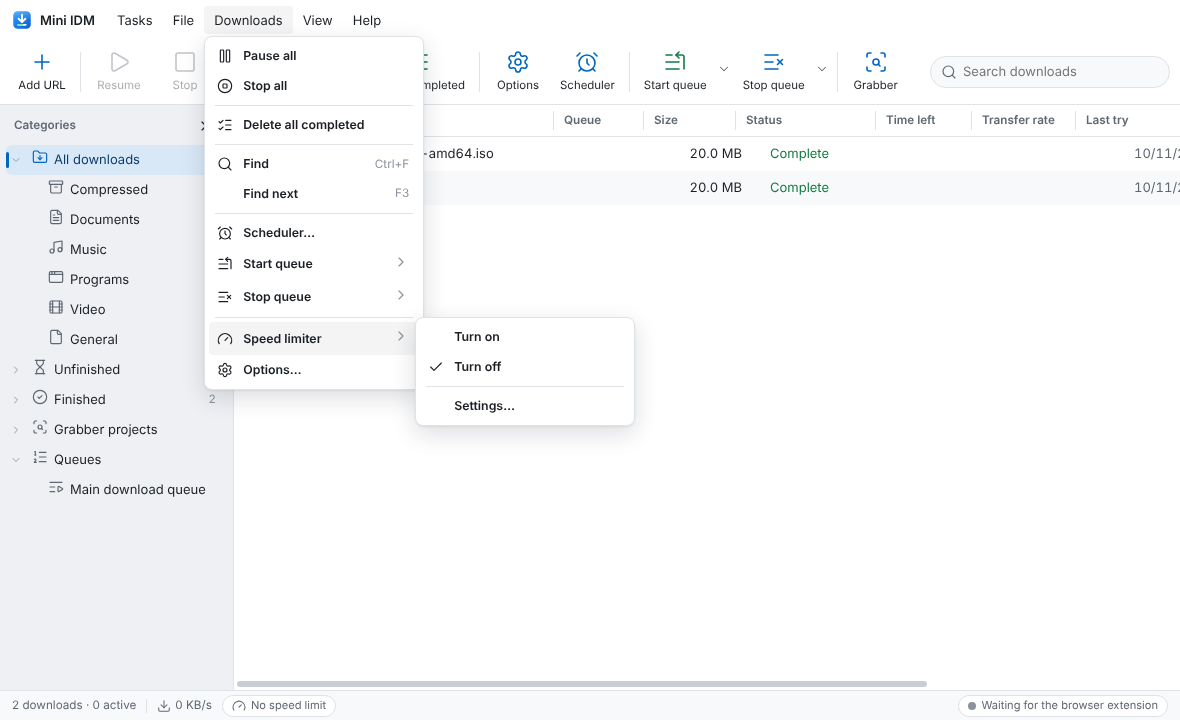
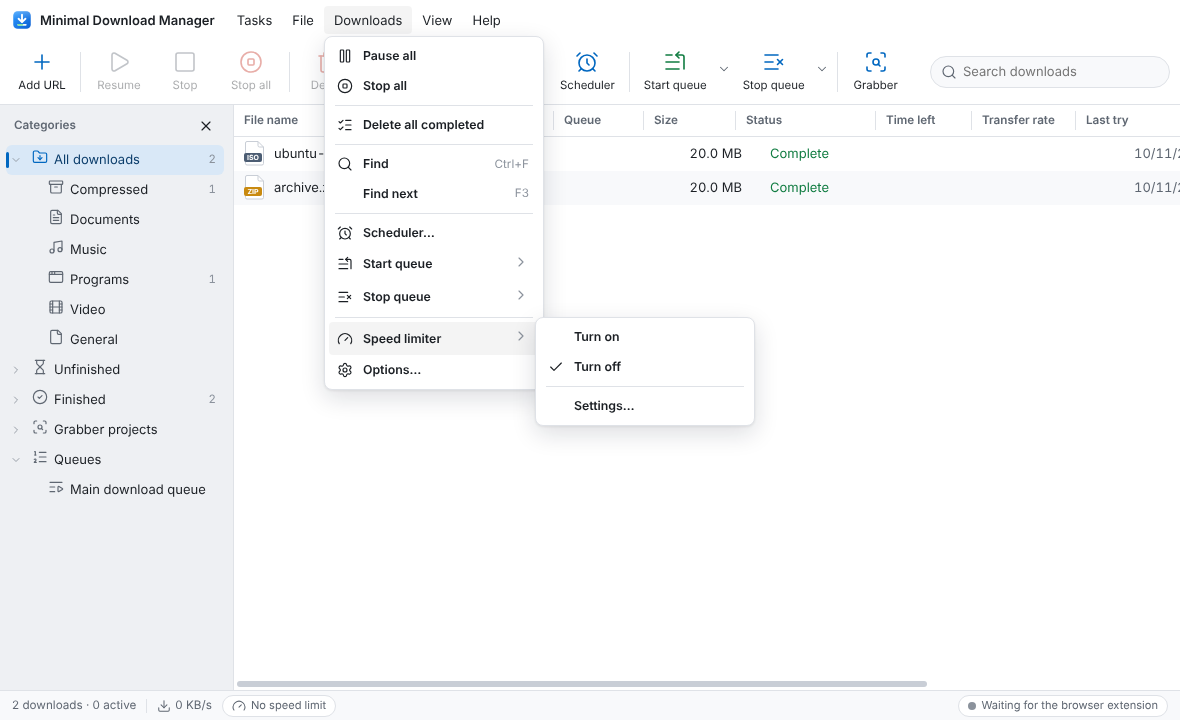
Rename to Minimal Download Manager (2.1.0)
The program, windows, installer, extension and docs are now called
Minimal Download Manager. The data folder follows the new name, so the
download list and settings are copied once from the old Mini IDM folder.
The extension keeps its ID, so a reload in the browser is enough.

Claude-Session: https://claude.ai/code/session_01UxjbMod15G4fgDfPu48pv7

diff --git a/app/main/index.js b/app/main/index.js
@@ -1,6 +1,6 @@
 'use strict';
 
-// Mini IDM: the Windows program. It owns the download engine, the windows,
+// Minimal Download Manager: the Windows program. It owns the download engine, the windows,
 // the tray icon, and the local bridge the browser extension talks to.
 
 const { app, protocol, net, Tray, Menu, nativeImage, nativeTheme, Notification, dialog, shell, session, powerSaveBlocker } = require('electron');
@@ -35,7 +35,7 @@ if (!app.requestSingleInstanceLock()) {
   app.on('second-instance', (_e, argv) => { handleArgs(argv); showMain(); });
   app.on('window-all-closed', () => { /* keep running in the tray */ });
   app.whenReady().then(start).catch((err) => {
-    dialog.showErrorBox('Mini IDM', `Mini IDM could not start:\n\n${err.stack || err}`);
+    dialog.showErrorBox('Minimal Download Manager', `Minimal Download Manager could not start:\n\n${err.stack || err}`);
     app.exit(1);
   });
 }
@@ -61,6 +61,7 @@ async function start() {
   });
 
   const home = app.getPath('userData');
+  if (!process.env.MINI_IDM_HOME) migrateOldData(home);
   const base = process.env.MINI_IDM_SAVE_DIR || app.getPath('downloads');
   const settings = new Settings(path.join(home, 'settings.json'), base);
   ctx.settings = settings;
@@ -101,6 +102,18 @@ async function start() {
   if (app.isPackaged) app.setAsDefaultProtocolClient('miniidm');
   handleArgs(process.argv);
   setInterval(keepAwake, 5000).unref?.();
+}
+
+// Until 2.1 the program was called "Mini IDM" and kept its data in
+// %APPDATA%\Mini IDM. Copy the list and settings over once.
+function migrateOldData(home) {
+  const old = path.join(app.getPath('appData'), 'Mini IDM');
+  const files = ['settings.json', 'downloads.json', 'config.json'];
+  if (!fs.existsSync(old) || files.some(f => fs.existsSync(path.join(home, f)))) return;
+  fs.mkdirSync(home, { recursive: true });
+  for (const f of files) {
+    try { fs.copyFileSync(path.join(old, f), path.join(home, f)); } catch { /* not there */ }
+  }
 }
 
 function listenBridge(port) {
@@ -199,7 +212,7 @@ async function afterQueue(action, name) {
   } else if (action === 'shutdown') {
     system.shutdown(t('notify.shutdownMessage', { name }));
     const r = await dialog.showMessageBox({
-      type: 'warning', title: 'Mini IDM', message: t('notify.shutdownTitle'), detail: t('notify.shutdownDetail', { name }),
+      type: 'warning', title: 'Minimal Download Manager', message: t('notify.shutdownTitle'), detail: t('notify.shutdownDetail', { name }),
       buttons: [t('notify.cancelShutdown'), t('common.ok')], defaultId: 0, cancelId: 0
     });
     if (r.response === 0) system.cancelShutdown();
@@ -294,7 +307,7 @@ function onMainClose(e) {
   windows.get('main').hide();
   if (!trayHintShown) {
     trayHintShown = true;
-    notify('Mini IDM', ctx.t('notify.inTray'));
+    notify('Minimal Download Manager', ctx.t('notify.inTray'));
   }
 }
 
@@ -325,7 +338,7 @@ function updateTrayTooltip() {
   const active = ctx.manager ? ctx.manager.list().filter(i => i.status === 'downloading') : [];
   const speed = active.reduce((n, i) => n + (i.speed || 0), 0);
   const fmt = speed > 1048576 ? `${(speed / 1048576).toFixed(1)} MB/s` : `${Math.round(speed / 1024)} KB/s`;
-  ctx.tray.setToolTip(active.length ? `Mini IDM: ${ctx.t('tray.active', { n: active.length })} · ${fmt}` : 'Mini IDM');
+  ctx.tray.setToolTip(active.length ? `Minimal Download Manager: ${ctx.t('tray.active', { n: active.length })} · ${fmt}` : 'Minimal Download Manager');
 }
 
 let cleaned = false;

diff --git a/extension/background.js b/extension/background.js
@@ -1,9 +1,9 @@
 // The extension is only a connector, like IDM's: it hands downloads to the
-// Mini IDM program, which decides what to capture (Options > File types).
+// Minimal Download Manager program, which decides what to capture (Options > File types).
 // 1. Downloads the browser starts on its own (chrome.downloads.onCreated).
 // 2. Clicks on file links (content.js), before the browser requests the URL,
 //    so one-time links are not used up.
-// 3. Right-click "Download with Mini IDM".
+// 3. Right-click "Download with Minimal Download Manager".
 // 4. Media and files seen in page traffic (webRequest, observe only), listed
 //    in the popup and never downloaded automatically.
 
@@ -16,8 +16,8 @@ async function setup() {
   const config = await refreshConfig();
   await chrome.contextMenus.removeAll();
   if (config?.contextMenu !== false) {
-    chrome.contextMenus.create({ id: 'mini-idm-link', title: chrome.i18n.getUILanguage().startsWith('pt') ? 'Baixar com o Mini IDM' : 'Download with Mini IDM', contexts: ['link'] });
-    chrome.contextMenus.create({ id: 'mini-idm-media', title: chrome.i18n.getUILanguage().startsWith('pt') ? 'Baixar esta mídia com o Mini IDM' : 'Download this media with Mini IDM', contexts: ['video', 'audio'] });
+    chrome.contextMenus.create({ id: 'mini-idm-link', title: chrome.i18n.getUILanguage().startsWith('pt') ? 'Baixar com o Minimal Download Manager' : 'Download with Minimal Download Manager', contexts: ['link'] });
+    chrome.contextMenus.create({ id: 'mini-idm-media', title: chrome.i18n.getUILanguage().startsWith('pt') ? 'Baixar esta mídia com o Minimal Download Manager' : 'Download this media with Minimal Download Manager', contexts: ['video', 'audio'] });
   }
 }
 chrome.runtime.onInstalled.addListener(setup);
@@ -37,8 +37,8 @@ chrome.downloads.onCreated.addListener(async (item) => {
   const url = item.finalUrl || item.url;
   if (!/^https?:/i.test(url)) return; // blob:, data:, filesystem: only exist inside the browser
 
-  // Hand off first; cancel only after Mini IDM accepted it. A cancelled
-  // download can't be resumed, so if Mini IDM is closed the browser keeps it.
+  // Hand off first; cancel only after Minimal Download Manager accepted it. A cancelled
+  // download can't be resumed, so if Minimal Download Manager is closed the browser keeps it.
   let accepted = false;
   try {
     accepted = await capture({ url, filename: (item.filename || '').split(/[\\/]/).pop(), mime: item.mime, referrer: item.referrer, kind: 'auto' });
@@ -52,13 +52,13 @@ chrome.downloads.onCreated.addListener(async (item) => {
 
 // ---------- 2. Link clicks and 3. the right-click menu ----------
 
-// If Mini IDM is not running (or doesn't want the file), the click still
+// If Minimal Download Manager is not running (or doesn't want the file), the click still
 // works: the browser downloads it the normal way.
 async function sendOrFallback({ url, filename, referrer, kind }) {
   let accepted = false;
   try {
     accepted = await capture({ url, filename, referrer, kind });
-  } catch { /* Mini IDM is not running */ }
+  } catch { /* Minimal Download Manager is not running */ }
   if (accepted) return { ok: true };
   const opts = { url };
   if (filename && !/[\\/]/.test(filename)) opts.filename = filename;

diff --git a/extension/popup.js b/extension/popup.js
@@ -1,17 +1,17 @@
-// Popup: is Mini IDM running, plus the videos and files found on this page.
+// Popup: is Minimal Download Manager running, plus the videos and files found on this page.
 import { ping, capture, fmtBytes, detectedKey } from './lib.js';
 
 const pt = chrome.i18n.getUILanguage().startsWith('pt');
 const T = pt ? {
-  open: 'Abrir o Mini IDM', running: 'Conectado ao Mini IDM {v}', notRunning: 'O Mini IDM não está aberto. Os downloads ficam no navegador.',
+  open: 'Abrir o Minimal Download Manager', running: 'Conectado ao Minimal Download Manager {v}', notRunning: 'O Minimal Download Manager não está aberto. Os downloads ficam no navegador.',
   start: 'Iniciar', found: 'Encontrado nesta página', none: 'Nada encontrado ainda. Toque o vídeo ou comece o download e abra de novo.',
   download: 'Baixar', sent: 'Enviado', failed: 'Falhou', stream: 'HLS/DASH: ainda não suportado',
-  hint: 'Os tipos de arquivo capturados são escolhidos no Mini IDM: Opções > Tipos de arquivos. Segure Alt ao clicar para deixar o navegador baixar.'
+  hint: 'Os tipos de arquivo capturados são escolhidos no Minimal Download Manager: Opções > Tipos de arquivos. Segure Alt ao clicar para deixar o navegador baixar.'
 } : {
-  open: 'Open Mini IDM', running: 'Connected to Mini IDM {v}', notRunning: 'Mini IDM is not open. Downloads stay in the browser.',
+  open: 'Open Minimal Download Manager', running: 'Connected to Minimal Download Manager {v}', notRunning: 'Minimal Download Manager is not open. Downloads stay in the browser.',
   start: 'Start', found: 'Found on this page', none: 'Nothing found yet. Play the video or start the download, then reopen.',
   download: 'Download', sent: 'Sent', failed: 'Failed', stream: 'HLS/DASH: not supported yet',
-  hint: 'The file types to capture are chosen in Mini IDM: Options > File types. Hold Alt while clicking to let the browser download.'
+  hint: 'The file types to capture are chosen in Minimal Download Manager: Options > File types. Hold Alt while clicking to let the browser download.'
 };
 
 const $ = (id) => document.getElementById(id);

diff --git a/app/test/bridge.test.js b/app/test/bridge.test.js
@@ -43,7 +43,7 @@ test('browser bridge', async (t) => {
   const ext = { Origin: EXT, 'Content-Type': 'application/json' };
   const capture = (body, headers = ext) => request(port, { method: 'POST', path: '/api/capture', headers, body });
 
-  await t.test('the Mini IDM extension needs no setup; everyone else is refused', async () => {
+  await t.test('the Minimal Download Manager extension needs no setup; everyone else is refused', async () => {
     assert.deepEqual((await request(port, { path: '/api/ping', headers: { Origin: EXT } })).json, { app: 'mini-idm', version: '2.0.0' });
     assert.equal((await request(port, { path: '/api/ping' })).status, 401, 'no origin, no token');
     assert.equal((await request(port, { path: '/api/ping', headers: { Origin: 'chrome-extension://abcdefghijklmnopabcdefghijklmnop' } })).status, 403, 'another extension');
@@ -80,7 +80,7 @@ test('browser bridge', async (t) => {
     const off = await capture({ url: `${origin.base}/x.exe`, kind: 'auto', browser: 'opera' });
     assert.equal(off.json.accepted, false, 'browser switched off in Options');
     const menu = await capture({ url: `${origin.base}/site/index.html`, kind: 'menu', browser: 'opera' });
-    assert.equal(menu.json.accepted, true, 'right-click "Download with Mini IDM" always works');
+    assert.equal(menu.json.accepted, true, 'right-click "Download with Minimal Download Manager" always works');
     settings.update({ general: { browsers: { opera: true } } });
   });
 

diff --git a/app/test-e2e/run.js b/app/test-e2e/run.js
@@ -1,6 +1,6 @@
 'use strict';
 
-// End-to-end: drives the real Mini IDM program (Electron) and the real
+// End-to-end: drives the real Minimal Download Manager program (Electron) and the real
 // browser extension (Chromium) together.
 //
 //   npm i -D playwright      (once; uses the Chromium Playwright installs)
@@ -71,7 +71,7 @@ async function shot(page, name) {
   try {
     await check('main window opens without errors', async () => {
       await main.waitForTimeout(800);
-      assert.equal(await main.title(), 'Mini IDM');
+      assert.equal(await main.title(), 'Minimal Download Manager');
       assert.equal(await main.locator('.node .nl').first().textContent(), LANG === 'pt-BR' ? 'Todos os downloads' : 'All downloads');
       await shot(main, 'main-empty');
     });
@@ -218,7 +218,7 @@ async function shot(page, name) {
       await shot(pr, 'dialog-properties');
       await pr.close();
       await main.click('.menubar button[data-menu="help"]');
-      await main.click('.menu .mi:has-text("About Mini IDM")');
+      await main.click('.menu .mi:has-text("About Minimal Download Manager")');
       const ab = await win('/about.html');
       await ab.waitForFunction(() => /\d+\.\d+\.\d+/.test(document.getElementById('version').textContent));
       await clickClosing(ab, '#close');

diff --git a/extension/lib.js b/extension/lib.js
@@ -1,5 +1,5 @@
 // Shared by the service worker and the popup. The extension has no settings:
-// the Mini IDM program decides what to capture (Options > File types).
+// the Minimal Download Manager program decides what to capture (Options > File types).
 
 const DEFAULT_SERVER = 'http://127.0.0.1:7878';
 
@@ -25,7 +25,7 @@ async function api(path, opts = {}) {
   return body;
 }
 
-// Is Mini IDM running? Also tells it which browser is connected.
+// Is Minimal Download Manager running? Also tells it which browser is connected.
 export async function ping() {
   try {
     return await api(`/api/ping?browser=${browserName()}`);
@@ -59,9 +59,9 @@ async function cookieHeader(url, referrer) {
 }
 
 /**
- * Hands a download to Mini IDM. kind: 'auto' (the browser started it),
- * 'click', 'menu' or 'detected'. Resolves to true when Mini IDM took it,
- * false when its rules say the browser should keep it; throws when Mini IDM
+ * Hands a download to Minimal Download Manager. kind: 'auto' (the browser started it),
+ * 'click', 'menu' or 'detected'. Resolves to true when Minimal Download Manager took it,
+ * false when its rules say the browser should keep it; throws when Minimal Download Manager
  * isn't running.
  */
 export async function capture({ url, filename, mime, referrer, kind }) {

diff --git a/app/renderer/main.html b/app/renderer/main.html
@@ -3,13 +3,13 @@
 <head>
   <meta charset="utf-8">
   <meta http-equiv="Content-Security-Policy" content="default-src 'self'; script-src 'self'; style-src 'self'; img-src 'self' data:; media-src 'self' blob: data:">
-  <title>Mini IDM</title>
+  <title>Minimal Download Manager</title>
   <link rel="stylesheet" href="common.css">
   <link rel="stylesheet" href="main.css">
 </head>
 <body class="main" data-title="app.title">
   <header class="titlebar">
-    <div class="brand"><img src="logo.svg" alt=""><span>Mini IDM</span></div>
+    <div class="brand"><img src="logo.svg" alt=""><span>Minimal Download Manager</span></div>
     <nav class="menubar" id="menubar" role="menubar">
       <button data-menu="tasks" data-menu-anchor data-i18n="menu.tasks"></button>
       <button data-menu="file" data-menu-anchor data-i18n="menu.file"></button>

diff --git a/app/engine/api.js b/app/engine/api.js
@@ -1,12 +1,12 @@
 'use strict';
 
-// Browser bridge: the small local HTTP API the Mini IDM extension talks to.
+// Browser bridge: the small local HTTP API the Minimal Download Manager extension talks to.
 // It plays the role of IDM's IDMMsgHost.exe. The program itself (windows,
 // list, settings) talks to the manager directly, not through here.
 //
 // Security model:
 // - binds to 127.0.0.1 only
-// - accepts requests from the Mini IDM extension, identified by its fixed ID
+// - accepts requests from the Minimal Download Manager extension, identified by its fixed ID
 //   (browsers set the Origin header; web pages cannot fake it), or with the
 //   bearer token from <home>/config.json (for scripts and tests)
 // - Host must be 127.0.0.1:PORT or localhost:PORT (blocks DNS rebinding)

diff --git a/extension/content.js b/extension/content.js
@@ -1,10 +1,10 @@
 // Isolated-world content script. DOM click events are visible here, and so is
 // chrome.runtime. (A "world": "MAIN" script would have no chrome.runtime.)
 //
-// It catches plain left-clicks on links to the file types chosen in Mini IDM
+// It catches plain left-clicks on links to the file types chosen in Minimal Download Manager
 // (Options > File types) and hands them over before the browser requests the
 // URL. Holding the bypass key (Alt by default) lets the browser download it.
-// If Mini IDM can't take it, the browser downloads it the normal way.
+// If Minimal Download Manager can't take it, the browser downloads it the normal way.
 
 (() => {
   const FALLBACK = 'zip rar 7z gz tar iso exe msi apk dmg mp4 mkv avi mov mp3 flac wav pdf'.split(' ');

diff --git a/app/renderer/about.html b/app/renderer/about.html
@@ -3,14 +3,14 @@
 <head>
   <meta charset="utf-8">
   <meta http-equiv="Content-Security-Policy" content="default-src 'self'; script-src 'self'; style-src 'self'; img-src 'self' data:">
-  <title>Mini IDM</title>
+  <title>Minimal Download Manager</title>
   <link rel="stylesheet" href="common.css">
   <link rel="stylesheet" href="dialogs.css">
 </head>
 <body class="dialog about" data-title="about.title">
   <div class="dlg-body about-body">
     <img src="logo.svg" alt="" class="about-logo">
-    <h1>Mini IDM</h1>
+    <h1>Minimal Download Manager</h1>
     <p class="muted" id="version"></p>
     <p data-i18n="about.text"></p>
     <p class="hint" data-i18n="about.credits"></p>

diff --git a/app/main/ipc.js b/app/main/ipc.js
@@ -16,7 +16,7 @@ const { fetchPage } = require('../engine/downloader');
 const { credentialsFor } = require('../engine/rules');
 const { EXTENSION_ID } = require('../engine/config');
 
-const REPO = 'newroidorder/mini-idm';
+const REPO = 'newroidorder/minimal-download-manager';
 const LINKS = {
   home: `https://github.com/${REPO}`,
   help: `https://github.com/${REPO}#readme`,

diff --git a/app/main/windows.js b/app/main/windows.js
@@ -49,7 +49,7 @@ function create(kind, params = {}, { key = kind, parent, modal = false, show = t
     backgroundColor: bg(),
     icon: ICON,
     autoHideMenuBar: true,
-    title: 'Mini IDM',
+    title: 'Minimal Download Manager',
     ...(isMain ? { titleBarStyle: 'hidden', titleBarOverlay: overlay() } : {}),
     webPreferences: {
       preload: PRELOAD,
